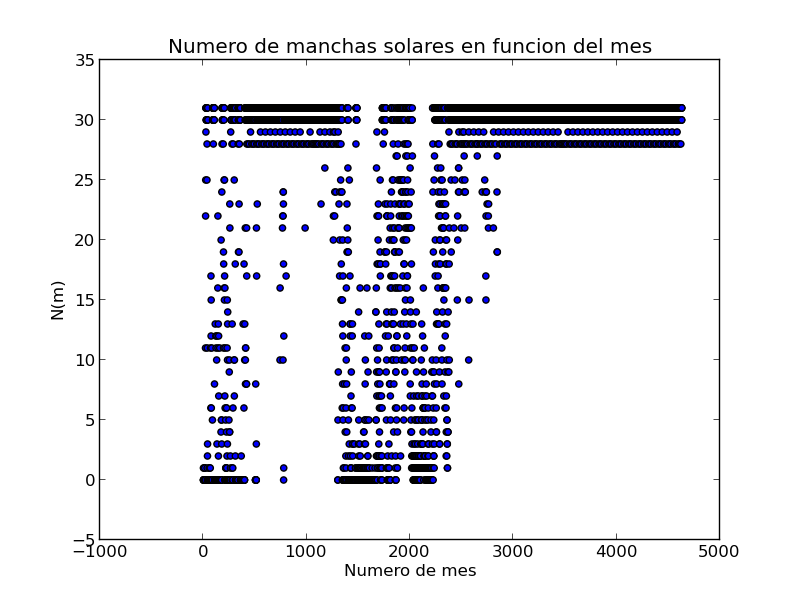
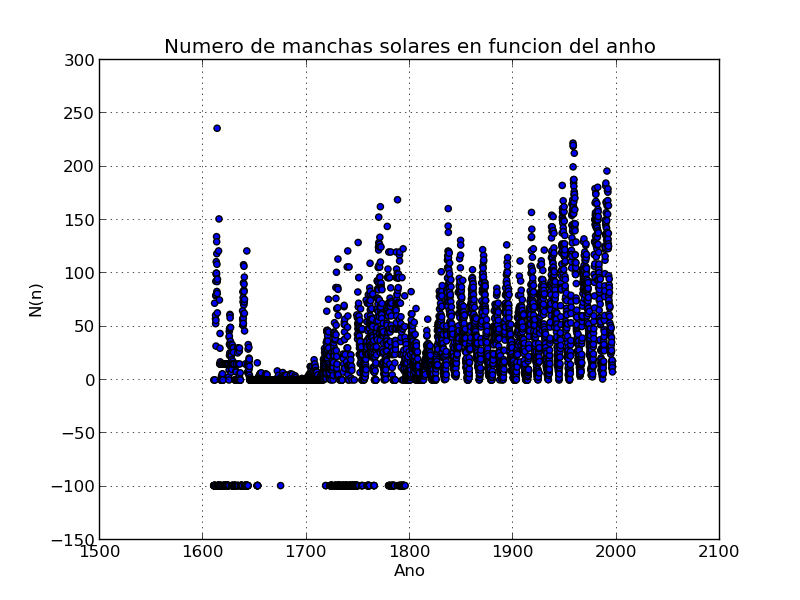
Transformada lista

diff --git a/tarea5.py b/tarea5.py
@@ -1,12 +1,11 @@
-# **********************************************
-# ********** Universidad de los Andes **********
-# **********   Fisica computacional   **********
-# **********         Tarea 5          **********
-# **********************************************
-# Autores:
-#	Andres Felipe Garcia Albarracin
-#	Andrea Rozo Mendez
-# ********************************************** 
+# ******************************************************************
+# ******************** Universidad de los Andes ********************
+# ********************   Fisica computacional   ********************
+# ********************         Tarea 5          ********************
+# ******************************************************************
+# ***************   Andres Felipe Garcia Albarracin  ***************
+# ***************         Andrea Rozo Mendez	     ***************
+# ****************************************************************** 
 
 # Librerias
 import os, sys
@@ -25,32 +24,32 @@ meses = []
 for i in range(fil):
 	meses = np.append(meses,[i])
 
+anos = meses/12.0 + c[0,0] 
 # Vector del numero de manchas
-manchas = (c[:,2])
+manchas = (c[:,3])
 
 # Grafica numero de manchas en funcion del tiempo
-pylab.scatter(meses,manchas)
-pylab.xlabel('Numero de mes')
-pylab.ylabel('N(m)')
-pylab.title('Numero de manchas solares en funcion del mes')
-pylab.savefig('GraficaManchas')
+pylab.scatter(anos,manchas)
+pylab.xlabel('Ano')
+pylab.ylabel('N(n)')
+pylab.title('Numero de manchas solares en funcion del anho')
 pylab.grid(True)
+pylab.savefig('GraficaManchas')
+
 
 # Transformada de Fourier
 n = fil
-dt = 1 					# 1 mes de intervalo
-fft_manchas = fft(manchas)/n 		# Transformada de Fourier normalizada
-freq = fftfreq(n,dt)			# Vector de frecuencias
+dt = 1 							# 1 mes de intervalo
+fft_manchas = np.fft.fft(manchas)/n 			# Transformada de Fourier normalizada
+freq = np.fft.fftfreq(n,dt)				# Vector de frecuencias
 
-fig2 = plt.figure()
-ax2 = fig2.add_subplot(111)
-ax2.bar(freq,abs(fft_manchas))
-ax2.set_xlabel("$Frecuencia [1/mes]$",fontsize=20)
-ax2.set_ylabel("$Manchas*mes$",fontsize=20)
-ax2.set_title("$Transformada\ de\ Fourier\ del\ num\ de\ manchas$", fontsize=20)
-filename = 'GraficaTransformada'
-fig2.savefig(filename + '.jpeg',format = 'jpeg', transparent=True)
-
+fig1 = plt.figure()
+pylab.plot(freq,abs(fft_manchas))
+pylab.xlabel('$f\ [1/mes]$')
+pylab.ylabel('$F\{N\}(f)\ [manchas.mes]$')
+pylab.title('$\mathrm{Espectro\ de\ frecuencias\ del\ numero\ de\ manchas}$', fontsize=20)
+pylab.grid(True)
+pylab.savefig('TransfManchas')
 
 
-print meses
+
